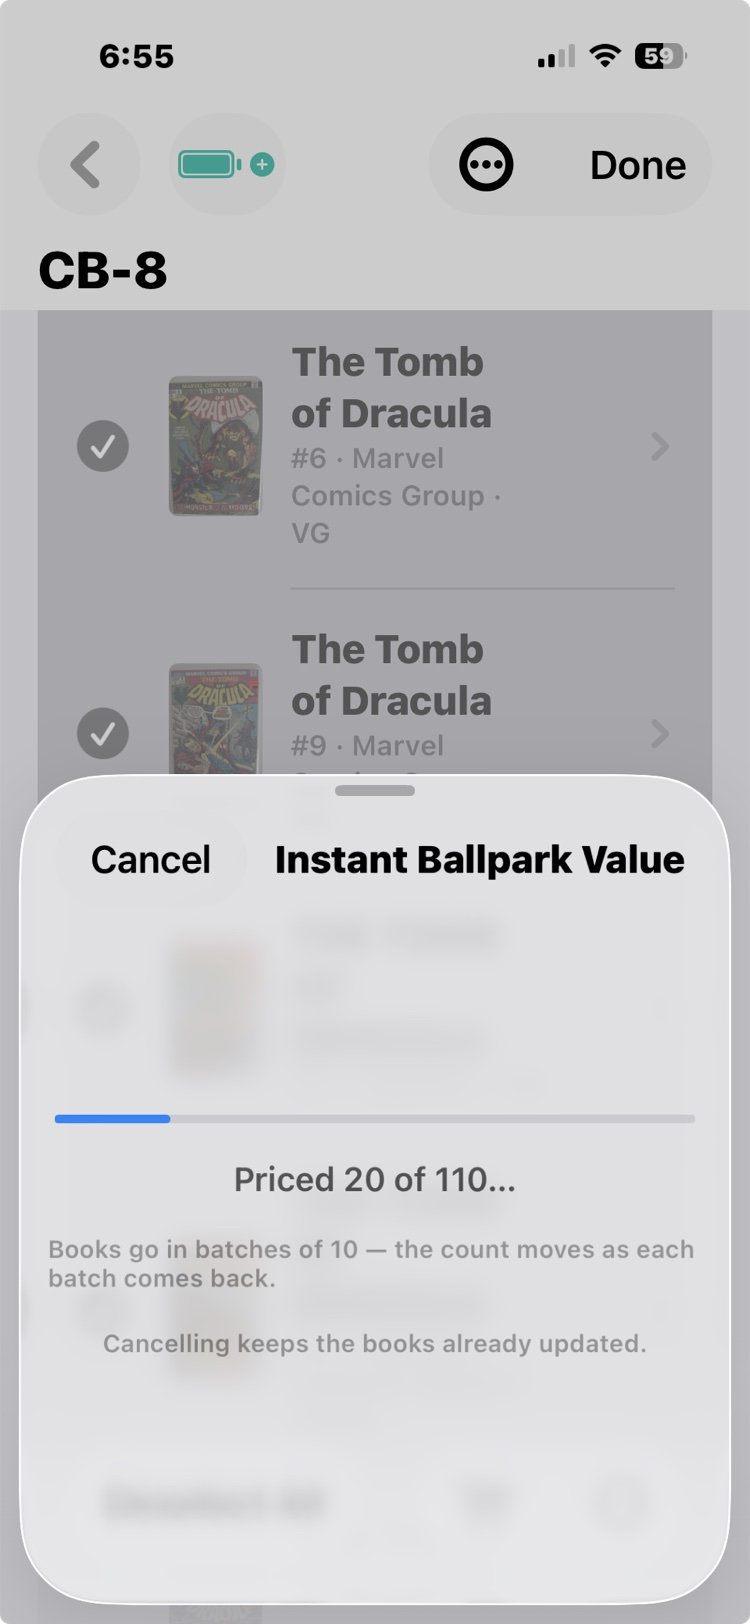
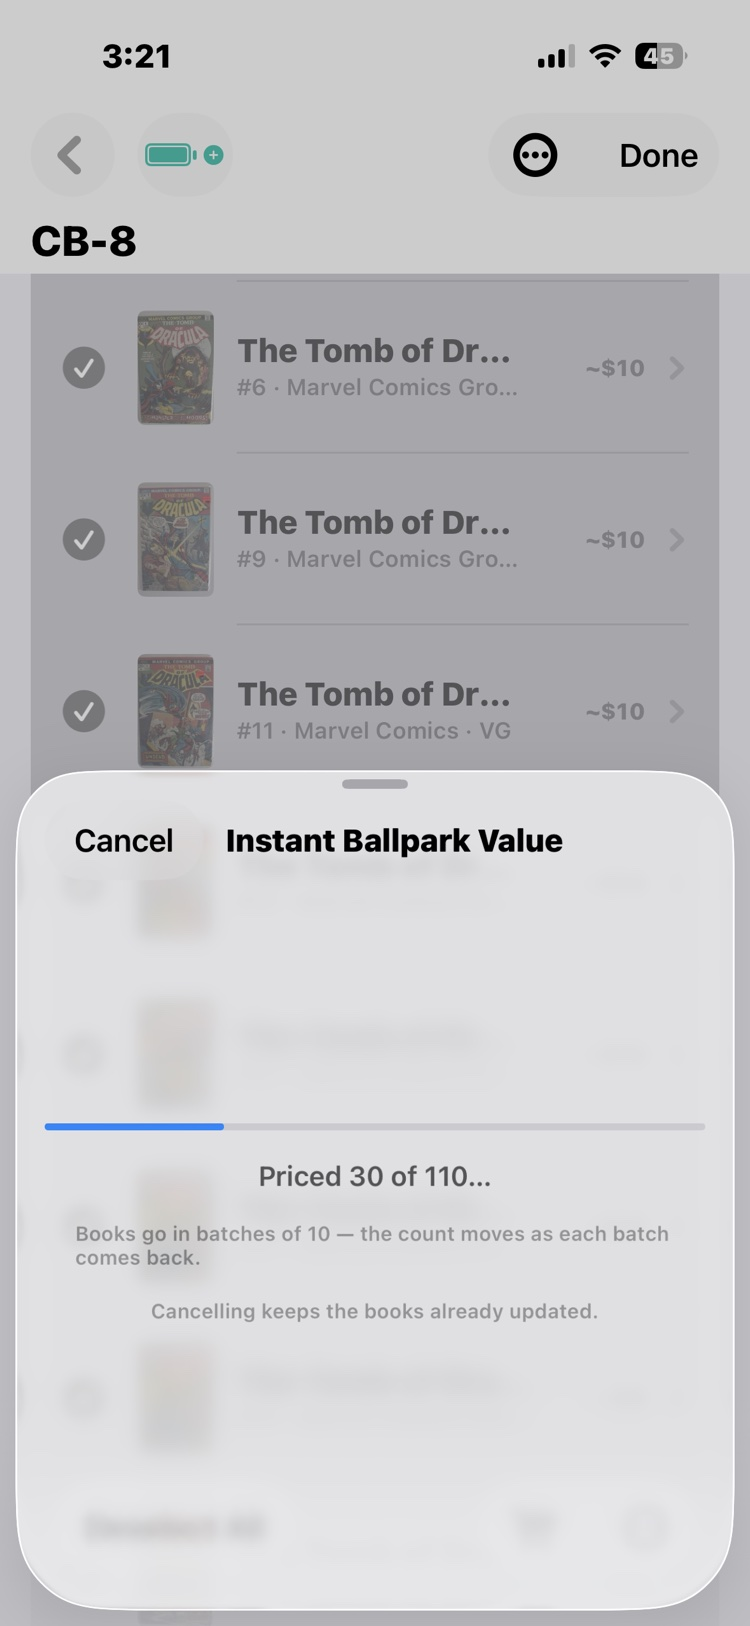
CB-8 is priced again in three minutes, and the page keeps the receipt

diff --git a/howto/ballpark-values.html b/howto/ballpark-values.html
@@ -216,36 +216,41 @@
     a price. Select All, tap Instant Ballpark, and the sheet says exactly what it
     will do before anything is spent: 110 selected, 110 to estimate, one
     button.</p>
-    <div class="phone-strip two">
+    <div class="phone-strip">
       <figure>
-        <img src="../images/ballpark-run-1.jpg" width="750" height="1624" loading="lazy"
-             alt="Box CB-8 freshly scanned: Tomb of Dracula issues 6, 9, 11, and 12, each with a grade like VG or VG/FN and no prices anywhere." />
+        <img src="../images/ballpark-run-1.jpg" width="750" height="1626" loading="lazy"
+             alt="Box CB-8 freshly scanned: a run of The Tomb of Dracula from issue 6 up, each with a grade like VG or VG/FN and no prices anywhere." />
         <figcaption>The starting line: scanned and graded, not a price in the
           box.</figcaption>
       </figure>
       <figure>
-        <img src="../images/ballpark-run-3.jpg" width="750" height="1624" loading="lazy"
-             alt="The Instant Ballpark Value sheet: 110 selected, 110 to estimate, an Estimate 110 books button, and the historical-market-data disclaimer." />
-        <figcaption>The sheet states the job before you commit: 110 books, one
-          button.</figcaption>
+        <img src="../images/ballpark-run-2.jpg" width="750" height="1626" loading="lazy"
+             alt="The box in selection mode with every row checked and the actions menu open, Instant Ballpark among them." />
+        <figcaption>Select All, then Instant Ballpark from the menu.</figcaption>
+      </figure>
+      <figure>
+        <img src="../images/ballpark-run-3.jpg" width="750" height="1626" loading="lazy"
+             alt="The Instant Ballpark Value sheet: 110 selected, 110 to estimate, one pair of identical copies priced together, a cost of 11 credits, an Estimate 110 books button, and the historical-market-data disclaimer." />
+        <figcaption>The sheet states the job before you commit: 110 books, 11
+          credits, one button.</figcaption>
       </figure>
     </div>
     <p>The run goes in batches of ten, and the count moves as each batch comes
     back. Cancelling keeps every book already updated, so a big run carries no
-    all-or-nothing risk. Four minutes later (the clock in the corner is the
-    receipt) the sheet totals the box at about $1,300, and every row wears its
+    all-or-nothing risk. Three minutes later (the clock in the corner is the
+    receipt) the sheet totals the box at about $1,200, and every row wears its
     number.</p>
     <div class="phone-strip two">
       <figure>
-        <img src="../images/ballpark-run-4.jpg" width="750" height="1624" loading="lazy"
-             alt="The run in progress: Priced 20 of 110, a progress bar, and notes that books go in batches of ten and cancelling keeps the books already updated." />
+        <img src="../images/ballpark-run-4.jpg" width="750" height="1626" loading="lazy"
+             alt="The run in progress: Priced 30 of 110, a progress bar, and notes that books go in batches of ten and cancelling keeps the books already updated." />
         <figcaption>Batches of ten; cancelling keeps what's already
           priced.</figcaption>
       </figure>
       <figure>
-        <img src="../images/ballpark-run-5.jpg" width="750" height="1624" loading="lazy"
-             alt="The finished run: Estimated 110 of 110 selected, Total about $1,300, and Tomb of Dracula #6 now showing ~$15 on its row." />
-        <figcaption>Four minutes later: ~$1,300 in the box.</figcaption>
+        <img src="../images/ballpark-run-5.jpg" width="750" height="1626" loading="lazy"
+             alt="The finished run: Estimated 110 of 110 selected, Total about $1,200, and the first rows now showing ~$10 each." />
+        <figcaption>Three minutes later: ~$1,200 in the box.</figcaption>
       </figure>
     </div>
 
@@ -268,8 +273,8 @@
 
     <h2>Read the number honestly</h2>
     <figure class="phone">
-      <img src="../images/ballpark-run-6.jpg" width="750" height="1624" loading="lazy"
-           alt="A Tomb of Dracula #12 record after the run: Grading service Raw, Grade VG/FN, Grader AI Cover Scan, and an Instant Ballpark Value of about $10 with its reasoning, its volume check, and its date." />
+      <img src="../images/ballpark-run-6.jpg" width="750" height="1626" loading="lazy"
+           alt="A Tomb of Dracula #18 record after the run: Grading service Raw, Grade VG/FN, Grader AI Cover Scan, and an Instant Ballpark Value of about $9 with its reasoning, its volume check, and its date." />
       <figcaption>Behind every number: the grade, the Grader, and the
         reasoning.</figcaption>
     </figure>

diff --git a/README.md b/README.md
@@ -121,7 +121,7 @@ delete the raw. One copy per picture.
 | `after-the-show-2.jpg` (was -3) | after-the-show scenario, accuracy how-to | **Done 2026-09-07**: CB-2, 115 confirmed, 3 not seen. The old mid-scan -2 is deleted; the set is now 1 menu, 2 result, 3 resolve, 4 menu count, 5 list | |
 | `after-the-show-5.jpg` | after-the-show scenario | **Done 2026-09-07** | |
 | `after-the-show-3.jpg` (was -6) | after-the-show scenario, accuracy how-to | **Done 2026-09-07** | |
-| `ballpark-run-1.jpg` | ballpark how-to | "The Tomb of Dracula" then "THE TOMB OF DRACULA", "Marvel Comics Group" then "MARVEL" | A freshly scanned box, graded, unpriced |
+| `ballpark-run-1.jpg` | ballpark how-to | **Done 2026-09-07**: the whole loop reshot as -1 to -6 on CB-8 (menu frame -2 shows two debug rows) | |
 | `barcoding-1.jpg` | barcoding how-to | "WEREWOLF BY NIGHT" rows behind the menu | Box menu open with Print box labels and Mark box as labeled |
 | `backup-reminder.jpg` | sharing how-to | "WEREWOLF BY NIGHT" above "Werewolf By Night", and a 50,000-book test library | Collections screen with the Backup due banner; a real collection behind it |
 | `convention-table-2.jpg` | convention-table scenario | Kiosk cards read "THE TOMB OF DRACULA", publishers "MARVEL COMICS GROUP" and "MARVEL" | Desktop: re-export the kiosk (it also gained label QR codes on 2026-08-29), search "Tomb", screenshot |
